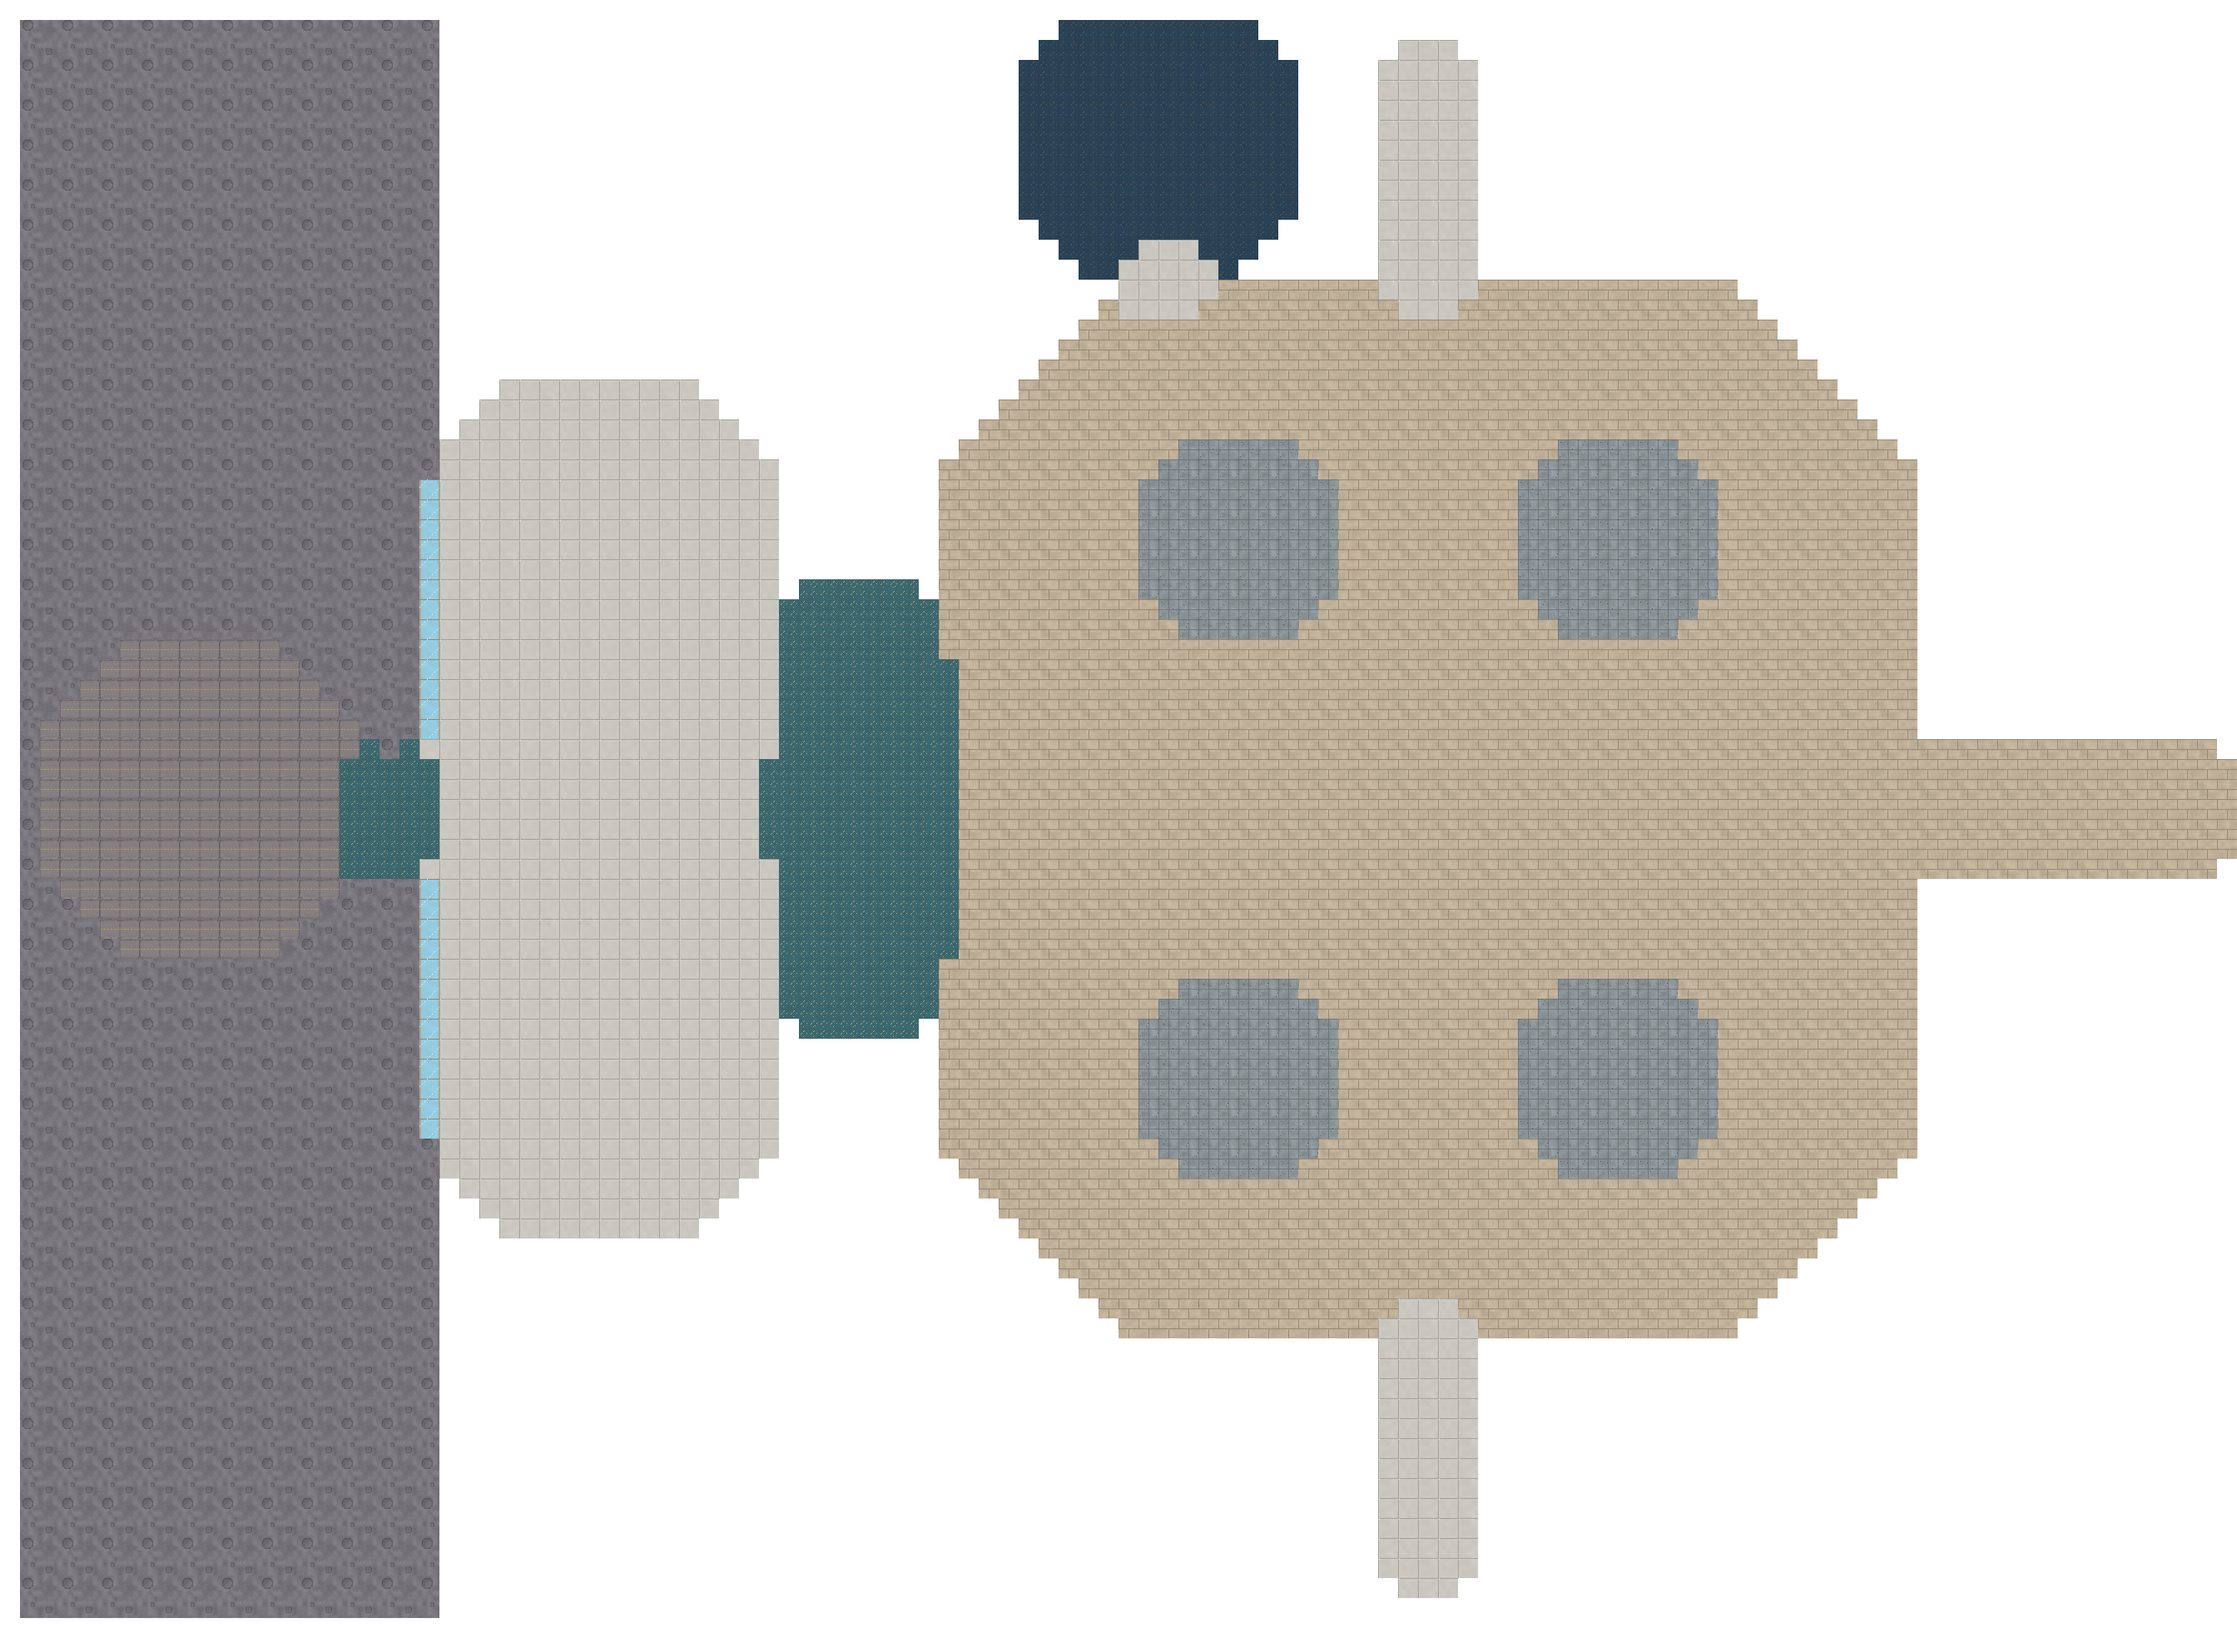
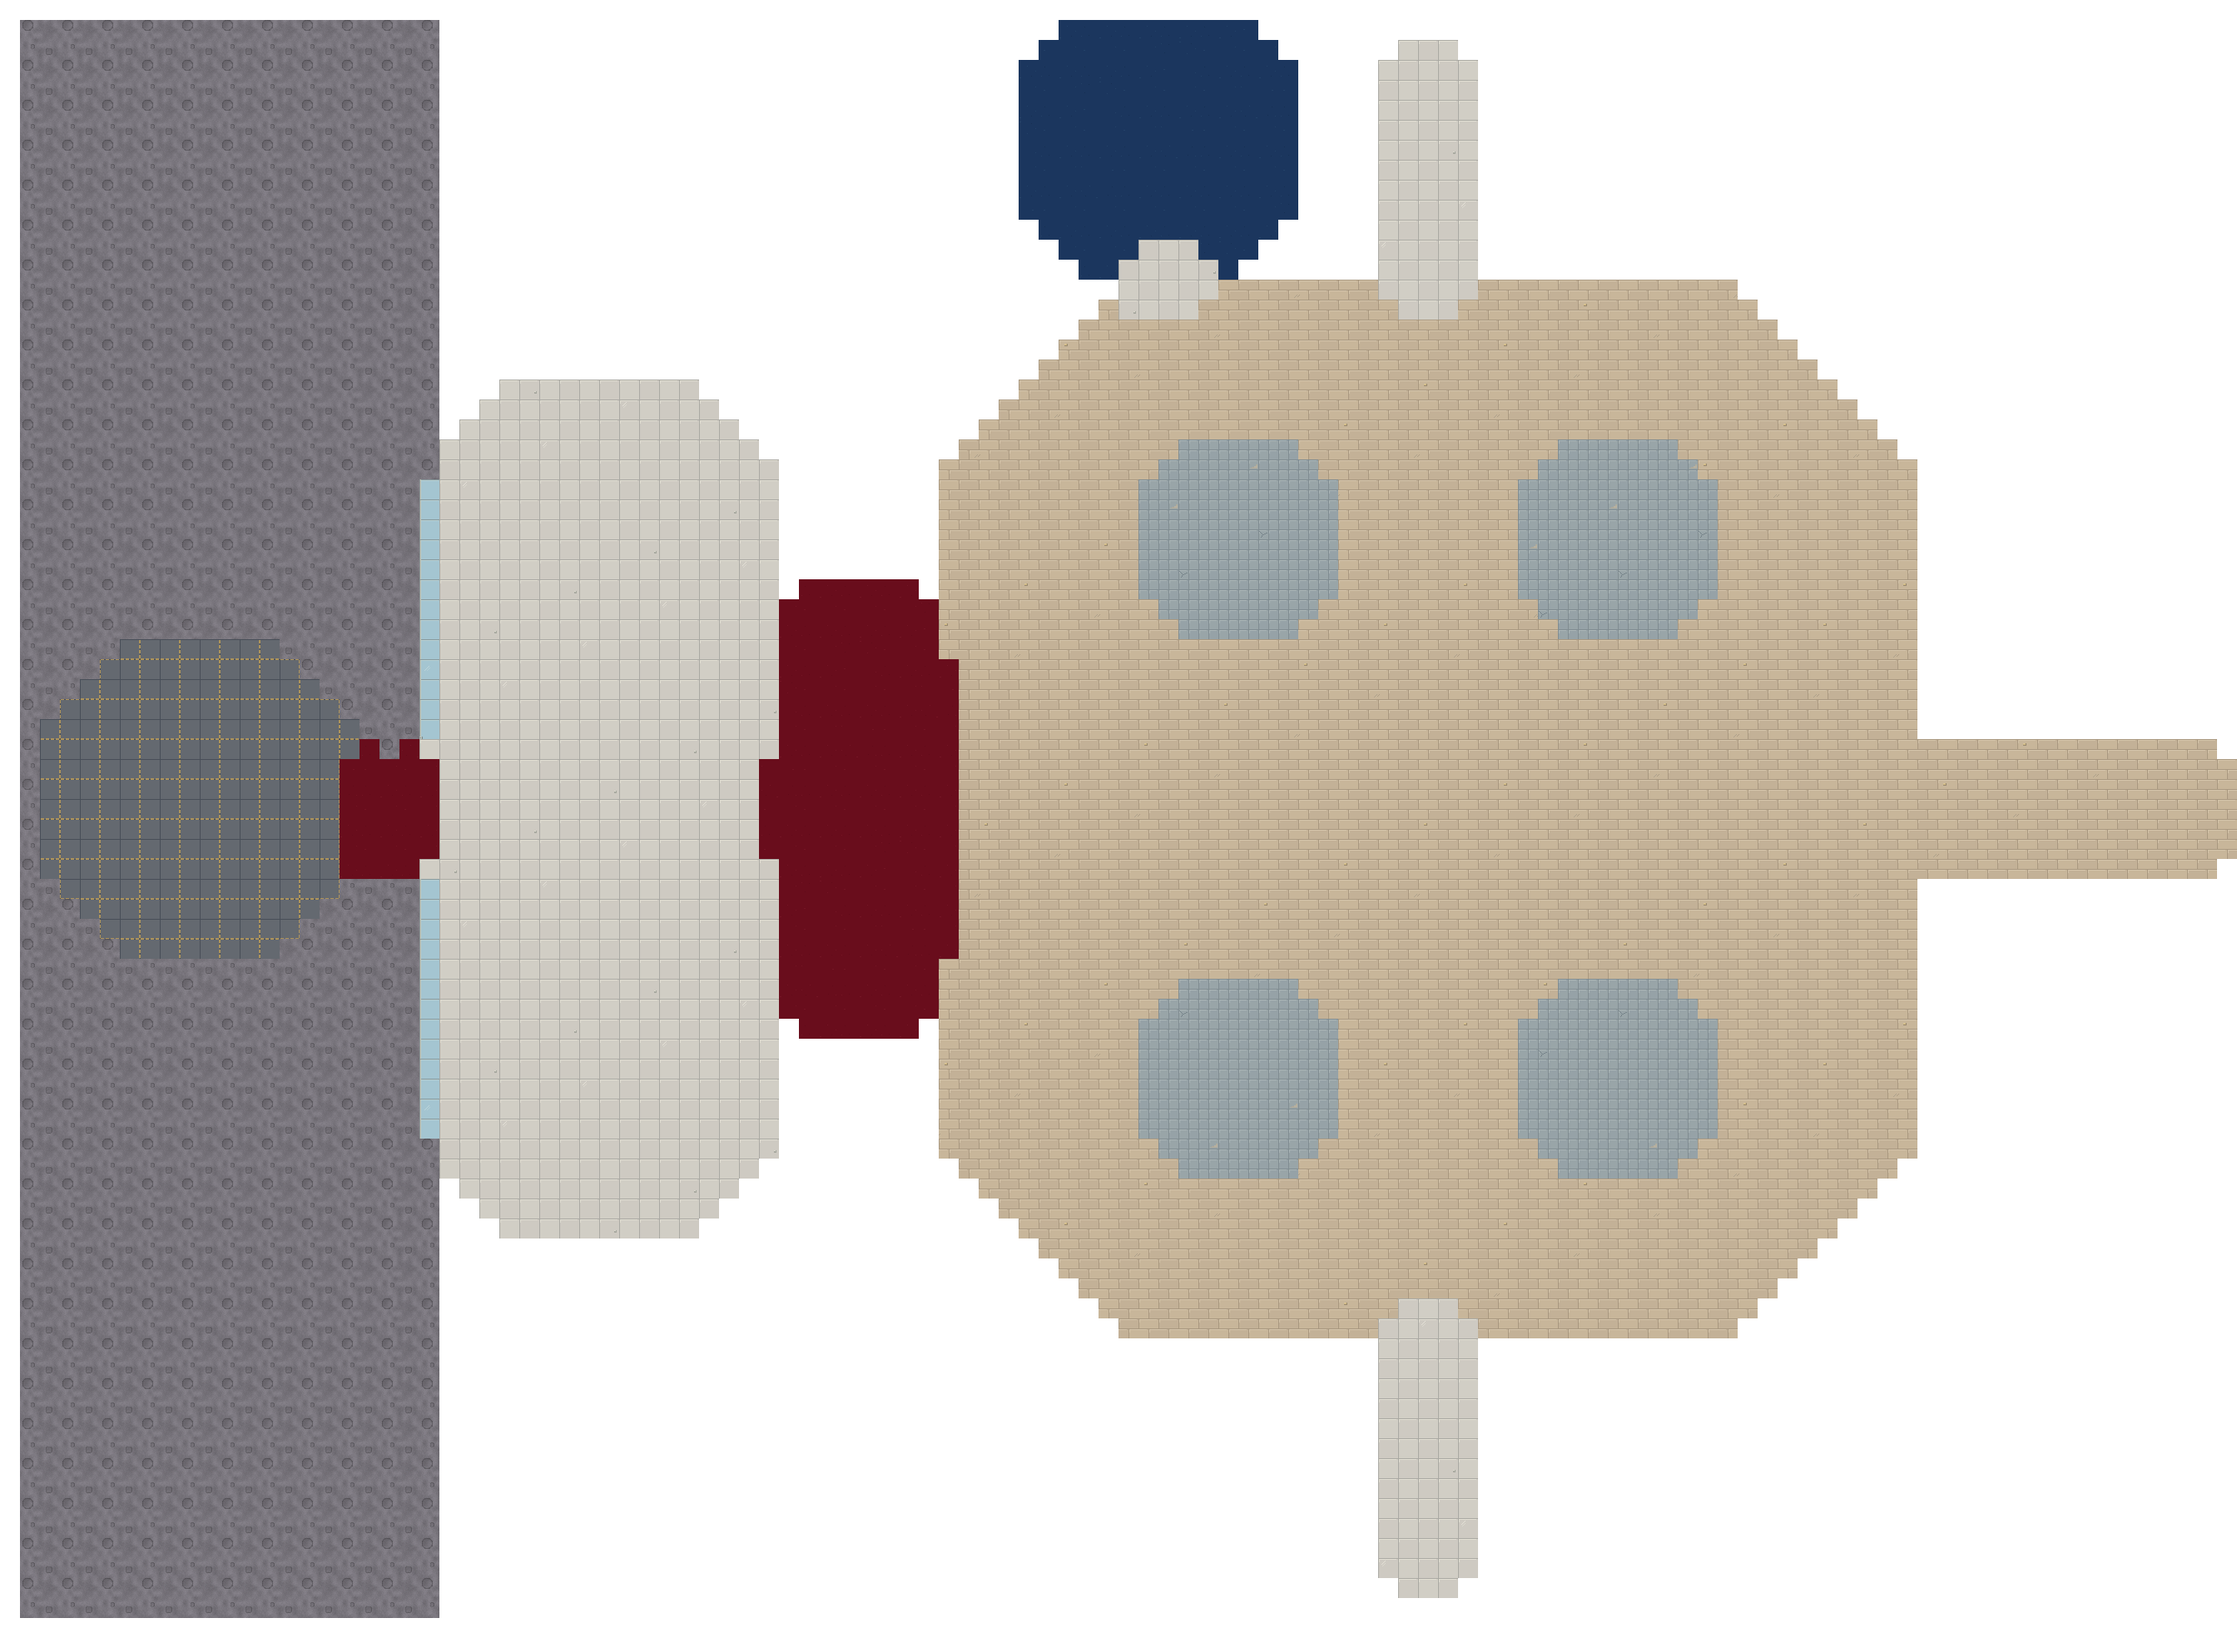
Install native Arrivals floors and monochrome carpet variations

diff --git a/tools/bake_floor.py b/tools/bake_floor.py
@@ -292,8 +292,8 @@ AREA_FLOORS = {
             "e": ("eng_floor_grate", None), "k": ("eng_floor_plate", ("6a3a2c", 0.45)), "q": (5, ("140e12", 0.88)),
             "j": ("eng_floor_plate", ("4a4e58", 0.25)), "a": ("eng_floor_pad", None)},
     "bay": {"u": ("eng_floor_hangar", None), "a": ("eng_floor_pad", None), "p": ("eng_floor_plate", None), "f": ("eng_floor_tech", None), "i": ("eng_floor_hangar", None)},
-    "west": {".": ("sp_terminal", None), "p": ("sp_plaza", None), "f": ("sp_carpet", None), "h": ("sp_carpet", ("1c2440", 0.55)), "u": ("sp_terminal", None),
-             "A": ("sp_plaza", None), "Q": ("sp_moon", None), "V": ("eng_floor_pad", None), "g": ("sp_glass", None), "Y": ("sp_basin", None)},
+    "west": {".": ("arrivals/terminal", None), "p": ("arrivals/plaza", None), "f": ("arrivals/carpet", None), "h": ("arrivals/carpet_blue", None), "u": ("arrivals/terminal", None),
+             "A": ("arrivals/plaza", None), "Q": ("sp_moon", None), "V": ("eng_floor_pad", None), "g": ("arrivals/glass", None), "Y": ("arrivals/basin", None)},
     "agri": {"Q": ("sp_moon", None), "a": ("sp_soil", None), "h": ("eng_floor_concrete", None), "f": ("eng_floor_concrete", ("c8a070", 0.15)), "s": ("sp_spa", None),
              "u": ("sp_terminal", None), "O": ("sp_water", ("70c8d0", 0.25)), "Y": ("sp_water", None)},
     "east": {".": ("sp_plaza", None), "s": ("ea_grass", None), "h": ("ea_deck", None), "a": ("sp_soil", None), "f": ("ea_rubber", None),
@@ -329,7 +329,8 @@ def bake_area(key, rows, art_dir, extras=None):
             else:
                 col = _tex_lookup(tex, ys, xs)
                 if ((key in ("eng", "bay") and kind.startswith("eng_floor_"))
-                        or (key == "east" and kind.startswith("ea_"))):
+                        or (key == "east" and kind.startswith("ea_"))
+                        or kind.startswith("arrivals/")):
                     index = (xs // (2*PX) * 7 + ys // (2*PX) * 3) % 11
                     # Index 2 also lands on a whole panel in the small East pavilion.
                     first = 2 if key == "east" else 3
